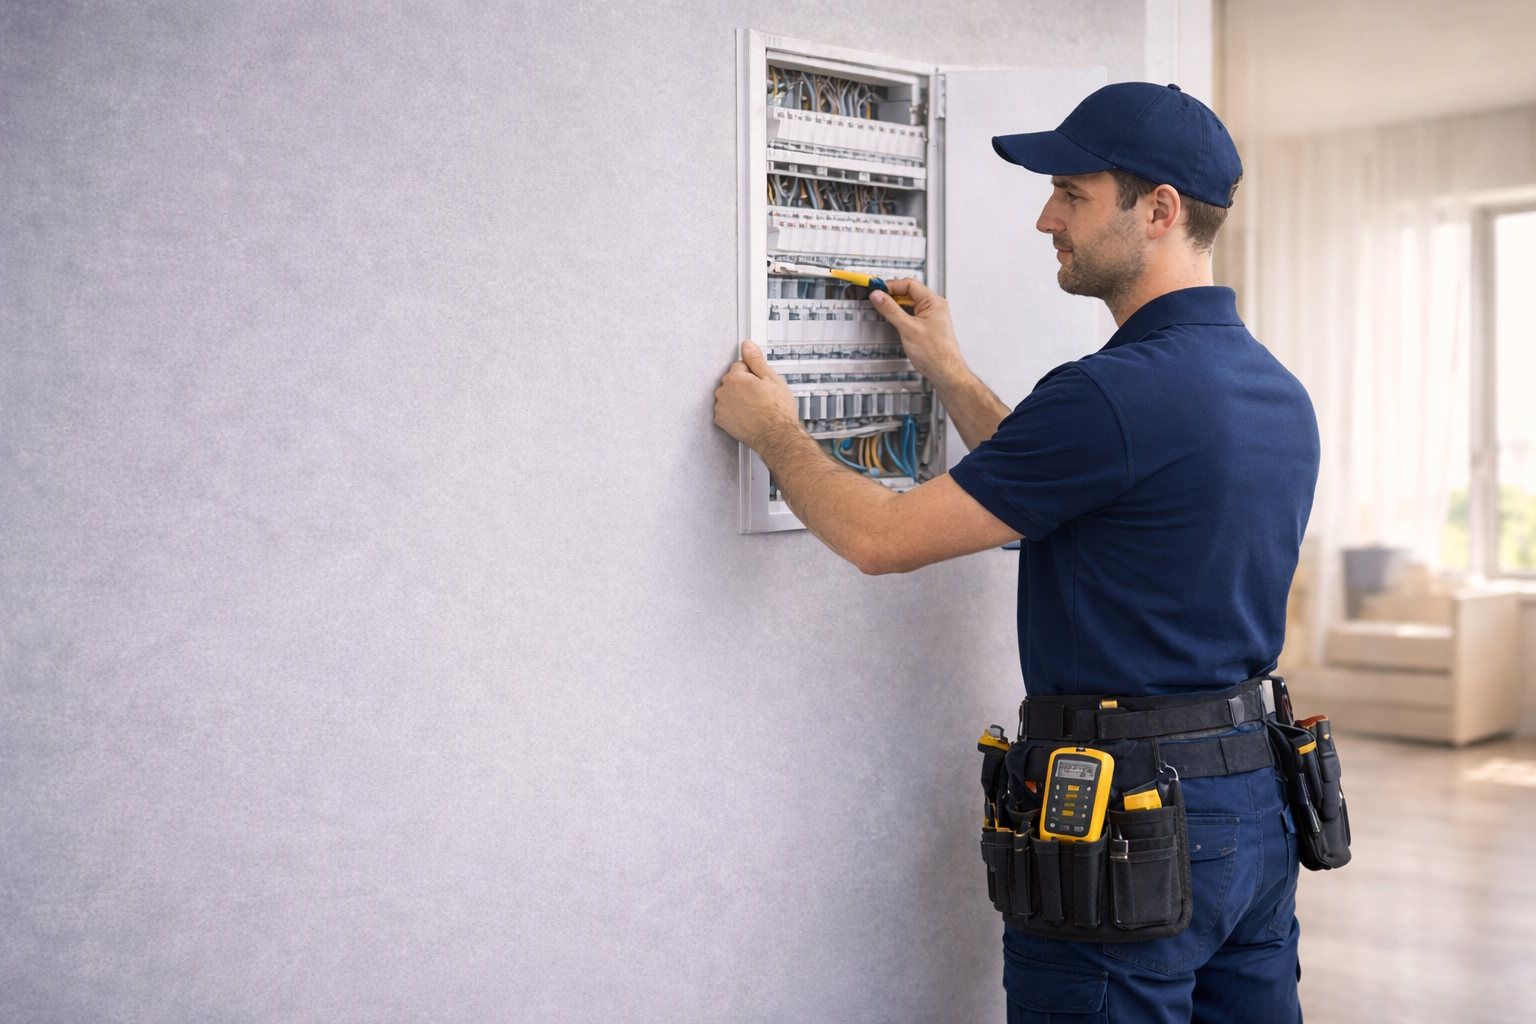
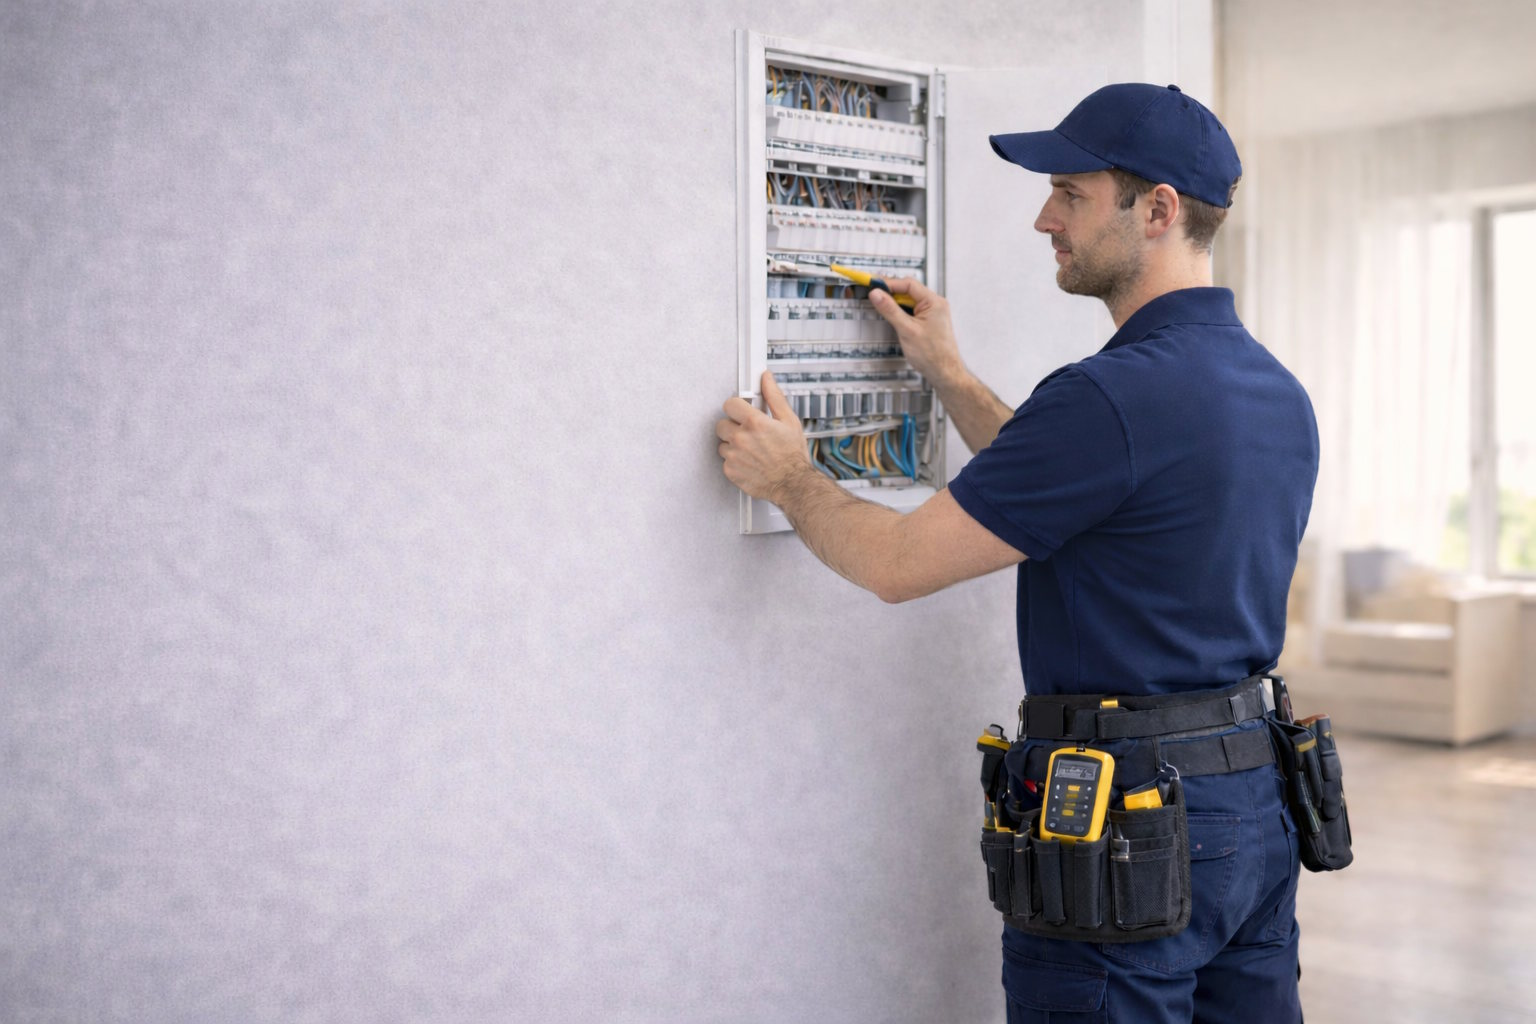
updates

diff --git a/styles.min.css b/styles.min.css
@@ -1,1 +1,1 @@
-.newsreader-200,.newsreader-300,.newsreader-400,.newsreader-500,.newsreader-600,.newsreader-700,.newsreader-800{font-family:Newsreader,serif;font-optical-sizing:auto;font-style:normal}.btn,.nav a{text-decoration:none}.floating-image-container img,.why img{right:12px;height:auto;object-fit:cover}@font-face{font-family:SerifFont;src:url(static/fonts/serif.woff2) format('woff2'),url(static/fonts/serif.woff) format('woff');font-weight:auto;font-style:normal;font-display:swap}:root{--blue-dark:#0b2a4a;--blue-mid:#2f4a6d;--yellow:#f4b400;--green:#2aa84a;--text-dark:#1f2933;--bg-light:#f4f6f8}.hidden{width:0;height:0}.newsreader-200{font-weight:200}.newsreader-300{font-weight:300}.newsreader-400{font-weight:400}.newsreader-500{font-weight:500}.newsreader-600{font-weight:600}.newsreader-700{font-weight:700}.newsreader-800{font-weight:800}*{box-sizing:border-box}body{margin:0;font-family:'Open Sans',sans-serif;color:var(--text-dark);background:#fff}.container{width:100%;max-width:1200px;padding:0 24px;margin:0 auto}.electric-logos-container,.services-title{max-width:1200px;margin-inline:auto;width:100%}.services-title{padding:0 28px;text-align:left;font-size:1.8rem;color:var(--blue-dark)}.btn,.nav a,.top-bar{color:#fff}.electric-logos-container{display:flex;gap:24px;flex-direction:row;justify-content:flex-start;padding-left:64px}.electric-logos-container img{width:80px}.top-bar{background:var(--blue-dark)}.top-bar-inner{display:flex;align-items:center;justify-content:space-between;height:72px}.btn,.nav{align-items:center}.logo{line-height:1.1}.logo-main{font-size:24px;font-weight:700}.logo-sub{font-size:12px;letter-spacing:2px;text-transform:uppercase;opacity:.9}.nav a{font-size:14px}.nav{display:flex;gap:24px}.nav-buttons{display:flex;gap:12px}.btn{display:inline-flex;justify-content:center;padding:10px 18px;border-radius:4px;font-weight:600;white-space:nowrap}.btn-call,.btn-whatsapp{gap:6px;align-items:center;line-height:1;display:flex}.service-block,.service-card{border-radius:6px;box-shadow:0 6px 18px rgba(0,0,0,.08)}.btn.large{padding:14px 24px;font-size:16px}.btn-call{background:var(--yellow);color:#000}.btn-whatsapp{background:var(--green)}.hero{position:relative;min-height:520px;background-image:url("static/hero.jpg");background-position:right top;background-size:cover;background-repeat:no-repeat;z-index:2;margin-bottom:12px}.hero-overlay{position:absolute;inset:0;background:linear-gradient(90deg,rgba(32,47,70,.95) 0,rgba(32,47,70,.85) 40%,rgba(32,47,70,.2) 70%,rgba(32,47,70,0) 100%);width:100%;height:100%}.hero-inner{position:relative;height:100%;display:flex;align-items:center;min-height:600px}.hero-text{max-width:520px;color:#fff}.service-card h3,.service-card ul,.why h2,.why-list{color:var(--blue-dark)}.hero-text h1.serif{font-size:40px;line-height:1.2;margin-bottom:16px}.hero-sub{font-size:16px;opacity:.9;margin-bottom:24px}.hero-actions{display:flex;gap:16px;margin-bottom:28px}.trust-list{list-style:none;padding:0;margin:0}.trust-list li{position:relative;padding-left:28px;margin-bottom:10px;font-size:14px}.services,.why h2{margin-bottom:24px}.trust-list li::before{content:"✔";position:absolute;left:0;color:#4ade80}.services{background:var(--bg-light);padding:0;position:relative;z-index:1}.services::before{content:'';position:absolute;top:0;left:0;width:100%;height:100%;filter:url(#roughpaper);background-color:#fff;z-index:-2}.services-overlay{position:absolute;inset:0;background:linear-gradient(90deg,rgba(32,47,70,.95) 0,rgba(32,47,70,.85) 40%,rgba(32,47,70,.2) 70%,rgba(32,47,70,0) 100%);z-index:4}.electric-logos-container,.services-grid,.services-title-container,.services>div{position:relative;z-index:2}.services-grid{display:grid;grid-template-columns:repeat(3,1fr);gap:24px;margin-bottom:48px}.service-card{background:rgba(255,255,255,.4);padding:28px}.service-card.highlight h3{color:#c0392b}.service-card h3{margin-top:0;font-weight:500}.service-card ul{padding-left:18px}.floating-image-container{position:relative;z-index:-4}.why img{position:absolute;top:calc((min(40vw,250px)/ 2.4) * -1);width:45vw;max-width:450px;box-shadow:0 6px 10px rgba(0,0,0,.2)}.floating-image-container img{position:absolute;top:0;width:200px}.why,.why-list li{position:relative}.why{background-color:#fff;width:100%;padding-block:64px;z-index:3}.why-list{list-style:none;padding:0}.why-list li{padding-left:28px;margin-bottom:14px}.why-list li::before{content:"✔";position:absolute;left:0;color:var(--green)}.cta{background:#eef2f6;padding:48px 0}.cta-inner{display:flex;gap:24px;justify-content:center;flex-wrap:wrap}.footer{background:#1f2f44;color:#fff;padding:24px 0 1px}.footer-inner{display:flex;justify-content:space-between;font-size:13px}@media (max-width:767px){.services-grid{grid-template-columns:1fr}.hero-text h1.serif{font-size:32px}.hero{position:relative;min-height:600px;background-image:url("static/hero.jpg");background-position:85% top}.top-bar-inner{display:flex;justify-content:space-between;align-items:center;flex-direction:column;height:fit-content;padding-block:12px;gap:12px}.footer-inner{display:flex;flex-direction:column;align-items:center;gap:4px}.services-title{padding:0;text-align:center;font-size:clamp(1.5rem, 9vw, 1.8rem)}.electric-logos-container{padding-left:24px}.electric-logos-container img{width:64px}}.page-hero{background:#eef2f6;padding:56px 0}.page-hero h1{margin-bottom:12px}.page-hero p{max-width:640px;color:#4b5563}.services-page{padding:64px 0}.services-stack{display:flex;flex-direction:column;gap:32px}.service-block{background:#fff;padding:32px}.service-block.highlight{border-left:6px solid #c0392b}.service-block h2{margin-top:0;margin-bottom:16px}.service-block ul{margin:0;padding-left:20px}.service-block li{margin-bottom:8px}.services-note{background:#f8fafc;border-left:4px solid #2aa84a;padding:20px 24px;font-size:15px;color:#374151}.copyright{font-size:12px;text-align:center}.coming-soon{display:flex;flex-direction:column;align-items:center;justify-content:center;height:100vh;position:fixed;top:0;left:0;width:100%;background-color:var(--blue-dark)}.coming-soon img{max-width:80vw}.coming-soon h1{color:#fff;font-size:clamp(2rem, 5vw, 4rem);margin:24px}
+.newsreader-200,.newsreader-300,.newsreader-400,.newsreader-500,.newsreader-600,.newsreader-700,.newsreader-800{font-family:Newsreader,serif;font-optical-sizing:auto;font-style:normal}.btn,.nav a{text-decoration:none}.hero,.top-bar{position:relative;z-index:2}.floating-image-container img,.why img{right:12px;height:auto;object-fit:cover}.hero.hero-page,.hero.hero-page .hero-inner{min-height:350px}@font-face{font-family:SerifFont;src:url(static/fonts/serif.woff2) format('woff2'),url(static/fonts/serif.woff) format('woff');font-weight:auto;font-style:normal;font-display:swap}:root{--blue-dark:#0b2a4a;--blue-mid:#2f4a6d;--yellow:#f4b400;--green:#2aa84a;--text-dark:#1f2933;--bg-light:#f4f6f8}.hidden{width:0;height:0}.newsreader-200{font-weight:200}.newsreader-300{font-weight:300}.newsreader-400{font-weight:400}.newsreader-500{font-weight:500}.newsreader-600{font-weight:600}.newsreader-700{font-weight:700}.newsreader-800{font-weight:800}*{box-sizing:border-box}body{margin:0;font-family:'Open Sans',sans-serif;color:var(--text-dark);background:#fff}.container{width:100%;max-width:1200px;padding:0 24px;margin:0 auto}.electric-logos-container,.services-title{max-width:1200px;margin-inline:auto;width:100%}.services-title{padding:0 28px;text-align:left;font-size:1.8rem;color:var(--blue-dark)}.btn,.nav a,.top-bar{color:#fff}.electric-logos-container{display:flex;gap:24px;flex-direction:row;justify-content:flex-start;padding-left:64px}.electric-logos-container img{width:80px}.top-bar{background:var(--blue-dark)}.top-bar-inner{display:flex;align-items:center;justify-content:space-between;height:72px}.btn,.nav{align-items:center}.logo{line-height:1.1}.logo-main{font-size:24px;font-weight:700}.logo-sub{font-size:12px;letter-spacing:2px;text-transform:uppercase;opacity:.9}.nav a{font-size:14px}.nav{display:flex;gap:24px}.nav-buttons{display:flex;gap:12px}.btn{display:inline-flex;justify-content:center;padding:10px 18px;border-radius:4px;font-weight:600;white-space:nowrap}.btn-call,.btn-whatsapp{gap:6px;align-items:center;line-height:1;display:flex}.btn.large{padding:14px 24px;font-size:16px}.btn-call{background:var(--yellow);color:#000}.btn-whatsapp{background:var(--green)}.hero{min-height:520px;background-image:url("static/hero.jpg");background-position:right top;background-size:cover;background-repeat:no-repeat;margin-bottom:12px}.hero-overlay{position:absolute;inset:0;background:linear-gradient(90deg,rgba(32,47,70,.95) 0,rgba(32,47,70,.85) 40%,rgba(32,47,70,.2) 70%,rgba(32,47,70,0) 100%);width:100%;height:100%}.hero-inner{position:relative;height:100%;display:flex;align-items:center;min-height:600px}.hero-text{max-width:520px;color:#fff}.service-card h3,.service-card ul,.why h2,.why-list{color:var(--blue-dark)}.hero-text h1.serif{font-size:40px;line-height:1.2;margin-bottom:16px}.hero-sub{font-size:16px;opacity:.9;margin-bottom:24px;width:60vw}.hero-actions{display:flex;gap:16px;margin-bottom:28px}.trust-list{list-style:none;padding:0;margin:0}.trust-list li{position:relative;padding-left:28px;margin-bottom:10px;font-size:14px}.services,.why h2{margin-bottom:24px}.trust-list li::before{content:"✔";position:absolute;left:0;color:#4ade80}.services{background:var(--bg-light);padding:0;position:relative;z-index:1}.services-page::before,.services::before{content:'';position:absolute;top:0;left:0;width:100%;height:100%;filter:url(#roughpaper);background-color:#fff;z-index:-2}.services-overlay{position:absolute;inset:0;background:linear-gradient(90deg,rgba(32,47,70,.95) 0,rgba(32,47,70,.85) 40%,rgba(32,47,70,.2) 70%,rgba(32,47,70,0) 100%);z-index:4}.electric-logos-container,.services-grid,.services-title-container,.services>div{position:relative;z-index:2}.services-grid{display:grid;grid-template-columns:repeat(3,1fr);gap:24px;margin-bottom:48px}.service-card{background:rgba(255,255,255,.4);border-radius:6px;padding:28px;box-shadow:0 6px 18px rgba(0,0,0,.08)}.service-block.highlight h2 i,.service-card.highlight h3{color:#c0392b}.service-list li::before,.why-list li::before{content:"✔";position:absolute;color:var(--green)}.service-card h3{margin-top:0;font-weight:500}.service-card ul{padding-left:18px}.floating-image-container{position:relative;z-index:-4}.why img{position:absolute;top:calc((min(40vw,250px)/ 2.4) * -1);width:45vw;max-width:450px;box-shadow:0 6px 10px rgba(0,0,0,.2)}.floating-image-container img{position:absolute;top:0;width:200px}.cta,.footer,.why,.why-list li{position:relative}.why{background-color:#fff;width:100%;padding-block:64px;z-index:3}.why-list{list-style:none;padding:0}.why-list li{padding-left:28px;margin-bottom:14px}.why-list li::before{left:0}.cta{background:var(--bg-light);padding:48px 0;z-index:2}.cta-inner{display:flex;gap:24px;justify-content:center;flex-wrap:wrap}.footer{background:var(--blue-dark);color:#fff;padding:24px 0 1px;z-index:1}.footer-inner{display:flex;justify-content:space-between;font-size:13px}@media (max-width:767px){.services-grid{grid-template-columns:1fr}.hero-text h1.serif{font-size:32px}.hero{position:relative;min-height:600px;background-image:url("static/hero.jpg");background-position:85% top}.top-bar-inner{display:flex;justify-content:space-between;align-items:center;flex-direction:column;height:fit-content;padding-block:12px;gap:12px}.footer-inner{display:flex;flex-direction:column;align-items:center;gap:4px}.services-title{padding:0;text-align:center;font-size:clamp(1.5rem, 9vw, 1.8rem)}.electric-logos-container{padding-left:24px}.electric-logos-container img{width:64px}}#fullscreen-spinner,.coming-soon{position:fixed;width:100%;top:0;display:flex;left:0}.copyright{font-size:12px;text-align:center}.coming-soon{flex-direction:column;align-items:center;justify-content:center;height:100vh;background-color:var(--blue-dark)}.coming-soon img{max-width:80vw}.coming-soon h1{color:#fff;font-size:clamp(2rem, 5vw, 4rem);margin:24px}#fullscreen-spinner{height:100%;opacity:0;pointer-events:none;justify-content:center;transition:.3s;align-items:center;background:#fff;z-index:9999}#fullscreen-spinner.show{opacity:1;pointer-events:all}.spinner-border{display:inline-block;width:2rem;height:2rem;vertical-align:text-bottom;border:.25em solid var(--blue-dark);border-right-color:transparent;border-radius:50%;-webkit-animation:.75s linear infinite spinner-border;animation:.75s linear infinite spinner-border}@keyframes spinner-border{100%{-webkit-transform:rotate(360deg);transform:rotate(360deg)}}.hero.hero-page{background-position:center 25%;margin-bottom:0}.hero-page .hero-text{max-width:700px}.services-page{padding:0;background-color:var(--bg-light);background:var(--bg-light);position:relative;z-index:1;margin-bottom:24px}.service-block,.services-note{background:rgba(255,255,255,.4)}.services-stack{display:flex;flex-direction:column;gap:32px}.service-block{border-radius:6px;padding:40px;box-shadow:0 4px 20px rgba(0,0,0,.06);border:1px solid rgba(0,0,0,.02)}.service-block.highlight{border-left:6px solid #c0392b;background:rgba(255,240,240,.4)}.service-block h2{margin-top:0;margin-bottom:24px;color:var(--blue-dark);font-size:28px;display:flex;align-items:center;gap:12px}.service-block h2 i{color:var(--yellow);font-size:24px}.service-list{list-style:none;padding:0;margin:0;display:grid;grid-template-columns:1fr;gap:12px}@media (min-width:768px){.service-list{grid-template-columns:1fr 1fr;column-gap:40px}}.service-list li{position:relative;padding-left:32px;font-size:16px;line-height:1.5;color:var(--text-dark)}.service-list li::before{font-family:"Font Awesome 6 Free";font-weight:900;left:0;top:2px;font-size:14px}.services-note{border-left:4px solid var(--blue-mid);padding:24px;font-size:16px;color:var(--blue-dark);border-radius:4px;box-shadow:0 2px 8px rgba(0,0,0,.05)}

diff --git a/services.html b/services.html
@@ -5,9 +5,12 @@
     <title>Services | Allen & Co Electrical</title>
     <meta name="viewport" content="width=device-width, initial-scale=1.0" />
     <link rel="apple-touch-icon" href="apple-touch-icon.png" />
-    <link rel="icon" type="image/x-icon" href="favicon.ico" />
-    <link rel="stylesheet" href="styles.min.css" />
+    <link rel="shortcut icon" type="image/x-icon" href="favicon.ico?" />
+    <link rel="stylesheet" href="styles.css" />
     <link rel="stylesheet" href="https://cdnjs.cloudflare.com/ajax/libs/font-awesome/7.0.1/css/all.min.css" />
+    <link rel="preconnect" href="https://fonts.googleapis.com">
+    <link rel="preconnect" href="https://fonts.gstatic.com" crossorigin>
+    <link href="https://fonts.googleapis.com/css2?family=Open+Sans:wght@300;400;500;600;700&family=Newsreader:ital,opsz,wght@0,6..72,200..800;1,6..72,200..800&display=swap" rel="stylesheet">
 </head>
 <body>
 
@@ -20,7 +23,6 @@
         <nav class="nav">
             <a href="index.html">Home</a>
             <a href="services.html">Services</a>
-            
         </nav>
         <div class="nav-buttons">
             <a href="tel:+353874407800" class="btn btn-call"><i class="fa-solid fa-phone"></i> Call Now</a>
@@ -28,23 +30,38 @@
         </div>
     </div>
 </header>
-
-<section class="page-hero">
-    <div class="container">
-        <h1>Electrical Services</h1>
-        <p>
-            Domestic and commercial electrical services delivered safely,
-            professionally, and in line with Irish electrical standards.
-        </p>
+<section class="hero hero-page">
+    <div class="hero-overlay"></div>
+    <div class="container hero-inner">
+        <div class="hero-text">
+            <h1 class="newsreader-400 serif">Electrical Services</h1>
+            <p class="hero-sub">
+                Domestic and commercial electrical services delivered safely,
+                professionally, and in line with Irish electrical standards.
+            </p>
+            <div class="hero-actions">
+                <a href="tel:+353874407800" class="btn btn-call large"><i class="fa-solid fa-phone"></i> Call Now</a>
+                <a href="https://wa.me/353874407800" class="btn btn-whatsapp large"><i class="fa-brands fa-whatsapp"></i> WhatsApp</a>
+            </div>
+        </div>
     </div>
 </section>
 
 <section class="services-page">
+    <svg class="hidden">
+        <filter id='roughpaper' >
+            <feTurbulence type="fractalNoise" baseFrequency='0.8' result='noise' numOctaves="3" />
+            <feDiffuseLighting in='noise' lighting-color='#f0f0f0' surfaceScale='0.5'>
+                <feDistantLight azimuth='45' elevation='50' />
+            </feDiffuseLighting>
+        </filter>
+            
+    </svg>
     <div class="container services-stack">
 
         <div class="service-block">
-            <h2><i class="fa-solid fa-house"></i> Domestic Electrical</h2>
-            <ul>
+            <h2 class="newsreader-500"><i class="fa-solid fa-house"></i> Domestic Electrical</h2>
+            <ul class="service-list">
                 <li>Electrical fault-finding and repairs</li>
                 <li>Tripping circuits, RCD/RCBO issues and nuisance trips</li>
                 <li>Sockets, switches, USB sockets and power upgrades</li>
@@ -62,8 +79,8 @@
         </div>
 
         <div class="service-block">
-            <h2><i class="fa-solid fa-plug"></i> Rewires and Upgrades</h2>
-            <ul>
+            <h2 class="newsreader-500"><i class="fa-solid fa-plug"></i> Rewires and Upgrades</h2>
+            <ul class="service-list">
                 <li>Full house rewires</li>
                 <li>Partial rewires (extensions, kitchens, renovations, individual circuits)</li>
                 <li>Lighting reconfiguration and circuit improvements</li>
@@ -72,8 +89,8 @@
         </div>
 
         <div class="service-block">
-            <h2><i class="fa-solid fa-building"></i> Commercial Electrical</h2>
-            <ul>
+            <h2 class="newsreader-500"><i class="fa-solid fa-building"></i> Commercial Electrical</h2>
+            <ul class="service-list">
                 <li>Commercial fault-finding and repairs</li>
                 <li>Office, retail and light industrial electrical works</li>
                 <li>Commercial fit-outs and upgrades</li>
@@ -86,8 +103,8 @@
         </div>
 
         <div class="service-block">
-            <h2><i class="fa-solid fa-clipboard-list"></i> Testing, Compliance and Certification</h2>
-            <ul>
+            <h2 class="newsreader-500"><i class="fa-solid fa-clipboard-list"></i> Testing, Compliance and Certification</h2>
+            <ul class="service-list">
                 <li>Electrical inspection and testing</li>
                 <li>Certification provided for qualifying works (where required)</li>
                 <li>Safety checks for landlords and rented properties</li>
@@ -96,8 +113,8 @@
         </div>
 
         <div class="service-block highlight">
-            <h2><i class="fa-solid fa-triangle-exclamation"></i> Emergency Call-Outs</h2>
-            <ul>
+            <h2 class="newsreader-500"><i class="fa-solid fa-triangle-exclamation"></i> Emergency Call-Outs</h2>
+            <ul class="service-list">
                 <li>Urgent electrical repairs and make-safe works</li>
                 <li>Loss of power and critical fault diagnosis</li>
                 <li>Safe isolation, fault location and permanent repair</li>
@@ -106,8 +123,8 @@
         </div>
 
         <div class="service-block">
-            <h2><i class="fa-solid fa-solar-panel"></i> EV and Solar</h2>
-            <ul>
+            <h2 class="newsreader-500"><i class="fa-solid fa-solar-panel"></i> EV and Solar</h2>
+            <ul class="service-list">
                 <li>EV home charging point installations</li>
                 <li>Electrical upgrades to safely support EV charging</li>
                 <li>Solar PV electrical works</li>
@@ -118,7 +135,7 @@
         </div>
 
         <div class="services-note">
-            All work is carried out safely, professionally, and in line with Irish
+            <strong>Note:</strong> All work is carried out safely, professionally, and in line with Irish
             electrical standards with certification provided where required.
         </div>
 
@@ -136,6 +153,12 @@
     </div>
 </section>
 
+<div id="fullscreen-spinner" class="fixed loading-spinner-container spinner show">
+    <div class="spinner-border show-spinner" role="status">
+        <span hidden>Loading...</span>
+    </div>
+</div>
+
 <footer class="footer">
     <div class="container footer-inner">
         <span>Serving Dublin &amp; Surrounding Areas</span>
@@ -143,6 +166,6 @@
     </div>
     <p class="copyright">© 2026 Allen &amp; Co Electrical</p>
 </footer>
-
+<script src="scripts.js"></script>
 </body>
 </html>

diff --git a/index.html b/index.html
@@ -6,7 +6,7 @@
     <meta name="viewport" content="width=device-width, initial-scale=1.0" />
     <link rel="apple-touch-icon" href="apple-touch-icon.png" />
     <link rel="shortcut icon" type="image/x-icon" href="favicon.ico?" />
-    <link rel="stylesheet" href="styles.min.css" />
+    <link rel="stylesheet" href="styles.css" />
     <link rel="stylesheet" href="https://cdnjs.cloudflare.com/ajax/libs/font-awesome/7.0.1/css/all.min.css" />
     <link rel="preconnect" href="https://fonts.googleapis.com">
     <link rel="preconnect" href="https://fonts.gstatic.com" crossorigin>
@@ -111,7 +111,6 @@
 
 <section class="why">
     <img src="static/tools.jpg">
-    <!-- <div class="floating-image-container"><img src="static/tools.jpg"></div> -->
     <div class="container">
         <h2 class="newsreader-500">Why Choose Allen &amp; Co Electrical</h2>
         <ul class="why-list">
@@ -133,7 +132,11 @@
         </a>
     </div>
 </section>
-
+<div id="fullscreen-spinner" class="fixed loading-spinner-container spinner show">
+    <div class="spinner-border show-spinner" role="status">
+        <span hidden>Loading...</span>
+    </div>
+</div>
 <footer class="footer">
     <div class="container footer-inner">
         <span>Serving Dublin &amp; Surrounding Areas</span>
@@ -141,5 +144,7 @@
     </div>
     <p class="copyright">© 2026 Allen &amp; Co Electrical</p>
 </footer>
+<script src="scripts.js"></script>
+
 </body>
 </html>

diff --git a/scripts.js b/scripts.js
@@ -1,0 +1,1 @@
+function showSpinner(){let e=document.getElementById("fullscreen-spinner");if(e){let n=document.createElement("div");n.classList.add("show-spinner"),n.classList.add("spinner-border"),n.role="status",e.appendChild(n),e.classList.add("show")}}function hideSpinner(){let e=document.getElementById("fullscreen-spinner");e&&(e.classList.remove("show"),setTimeout(()=>{let n=e.querySelector(".show-spinner");n&&n.remove()},300))}document.addEventListener("DOMContentLoaded",()=>{setTimeout(()=>{hideSpinner()},350)});
